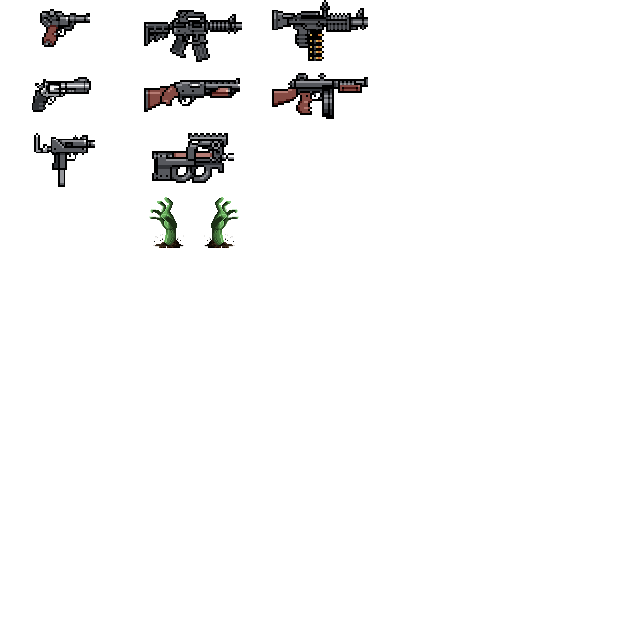
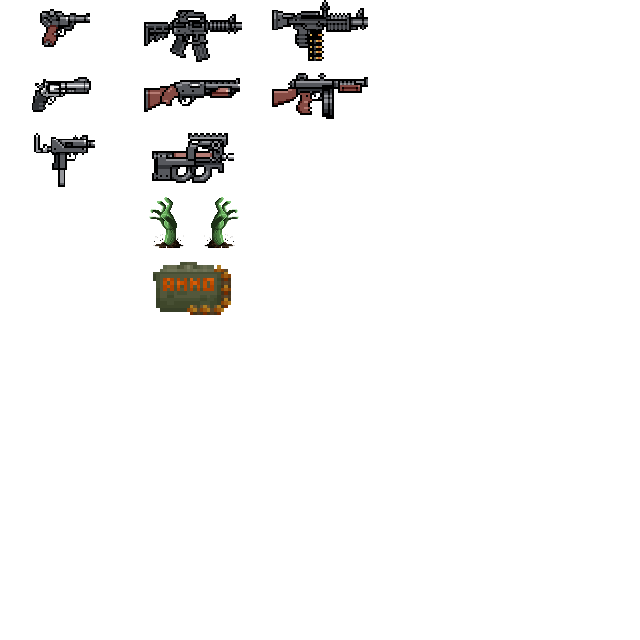
Weapons itemizables awf!

Changed region(s): [[0.2188, 0.4062, 0.375, 0.5]]

diff --git a/main.js b/main.js
@@ -115,7 +115,7 @@ var Core = {
 function SpriteSheet (stack)
 {
 	this.stack = stack?stack:{}
-	this.currentId = null;
+	this.currentId = Object.keys(this.stack)[0];
 
 	this.set = function(id)
 	{
@@ -168,6 +168,7 @@ $(document).ready(function(){
 		Core.init(document.getElementById('canshoot'),
 			[
 				MouseController,
+				HitController,
 				InventoryController,
 
 				ShootController,
@@ -196,7 +197,7 @@ var AimController = {
 	
 	getPivot: function()
 	{
-		return PlayerController.center()
+		return PlayerController.entity.center()
 	},
 
 	getAngleFromTo: function (x, y, to_x, to_y)
@@ -544,9 +545,13 @@ var UIController = {
 	drawLoadedAmmo: function(ctx)
 	{
 		ctx.save()
-		ctx.translate(Core.data.canvas.width/2-40, Core.data.canvas.height -78)
+		ctx.translate(Core.data.canvas.width/2 -30, Core.data.canvas.height -81)
+		
 		text = WeaponController.getCurrentWeapon().get('ammoLoaded')
 		text = text == -1?'∞':text
+		
+		ctx.textBaseline = 'middle'
+  		ctx.textAlign = 'center'
 		ctx.font = '20px Russo One'
 		ctx.fillStyle = 'white'
 		ctx.fillText(text, 0, 0)
@@ -556,8 +561,10 @@ var UIController = {
 	drawLeftAmmo: function(ctx)
 	{
 		ctx.save()
-		ctx.translate(Core.data.canvas.width/2+36, Core.data.canvas.height -78)
+		ctx.translate(Core.data.canvas.width/2+45, Core.data.canvas.height -81)
 		text = WeaponController.getAmmo(WeaponController.getCurrentWeaponId())
+		ctx.textBaseline = 'middle'
+  		ctx.textAlign = 'center'
 		ctx.font = '20px Russo One'
 		ctx.fillStyle = 'white'
 		ctx.fillText(text, 0, 0)
@@ -728,8 +735,12 @@ function Entity (settings)
 		var defaultSettings = {
 			X: 220,
 			Y: 270,
+			scaleX: 1,
+			scaleY: 1,
 			width: 32,
 			height: 32,
+			drawX: 0,
+			drawY: 0,
 			color: "#00A",
 			sprite: new SpriteSheet()
 		}
@@ -760,9 +771,10 @@ function Entity (settings)
   		if (this.sprite.get())
   		{
 	  		ctx.save();
-		    ctx.translate(this.X, this.Y);
-		    this.sprite.get().render(ctx);
-		    ctx.restore();
+		    ctx.translate(this.X + this.drawX, this.Y + this.drawY);
+		    ctx.scale(this.scaleX, this.scaleY)
+		    this.sprite.get().render(ctx)
+		    ctx.restore()
   		} else {
 	  		ctx.fillStyle = this.color;
 		    ctx.fillRect(this.X, this.Y, this.width, this.height);
@@ -794,30 +806,54 @@ function Entity (settings)
 /*==========================================================================================
 =            #ITEM CLASS                       =============================================
 ==========================================================================================*/
-function Item (stack_id, item_id)
+function Item (stack_id, item_id, entity, qty)
 {
 	this.stack_id = stack_id
 	this.item_id = item_id
+	this.entity = entity
+	this.qty = qty?qty:1
+
+	this.grabbable = false
+	this.grabed = false
 
 	this.grab = function()
 	{
-		InventoryController.attach(this.stack_id, this.item_id)
+		InventoryController.attach(this.stack_id, this.item_id, this.qty)
+		this.grabbed = true
 	}
 
-	this.update = function(dt)
+	this.update = function(dt, id)
 	{
-		
+		if (this.grabbed)
+			ItemController.removeItemById(id)
 	}
 
 	this.draw = function(ctx)
 	{
-		ctx.save()
-		ctx.translate(Core.data.canvas.width - 100, Core.data.canvas.height - 200)
-		ctx.scale(0.5, 0.5)
-		ctx.fillStyle = 'lightblue'
-		ctx.fillRect(0,0,128,64)
-		UIController.sprite.get(this.item_id).render(ctx)
-		ctx.restore()
+		this.entity.draw(ctx)
+		if (this.grabbable)
+			this.drawGrabbable(ctx)
+	}
+
+	this.hit = function (by)
+	{
+		if (by == PlayerController)
+		{
+			this.grabbable = true
+		}
+	}
+
+	this.drawGrabbable = function (ctx)
+	{
+		var Y = this.entity.Y + this.entity.height + 15
+		var X = this.entity.center().X
+		var text = 'PRESS E'
+		ctx.textBaseline = 'middle'
+  		ctx.textAlign = 'center'
+		ctx.fillStyle = 'white'
+		ctx.font = '18px Russo One'
+		ctx.fillText(text, X, Y)
+		this.grabbable = false
 	}
 }
 
@@ -832,12 +868,57 @@ var ItemController = {
 
 	init: function()
 	{
-		this.add(new Item('weapons', 'shotgun'))
+		var sprites = {
+	  		rifle: new Sprite('assets/gun.png', [64*2, 0], [64*2, 64], 1, [0], 'vertical'),
+	  		shotgun: new Sprite('assets/gun.png', [64*2, 0], [64*2, 64], 1, [1], 'vertical'),
+	  		smg: new Sprite('assets/gun.png', [64*2, 0], [64*2, 64], 1, [2], 'vertical'),
+	  		hands: new Sprite('assets/gun.png', [64*2, 0], [64*2, 64], 1, [3], 'vertical'),
+	  		ammo: new Sprite('assets/gun.png', [64*2, 0], [64*2, 64], 1, [4], 'vertical'),
+		}
+		this.add(
+			new Item('weapons', 'shotgun', new Entity ({
+				X: Core.data.canvas.width - 450,
+				Y: Core.data.canvas.height - 200,
+				width:48,
+				height:32,
+				drawX: -8,
+				drawY: 0,
+				scaleX: 0.49,
+				scaleY: 0.49,
+				color: 'red',
+				sprite: new SpriteSheet({item: sprites['shotgun']}),
+			}))
+		)
+
+		this.add(
+			new Item('ammo', 'shotgun', new Entity ({
+				X: Core.data.canvas.width - 550,
+				Y: Core.data.canvas.height - 200,
+				width:48,
+				height:32,
+				scaleX: 0.49,
+				scaleY: 0.49,
+				drawX: -8,
+				color: 'red',
+				sprite: new SpriteSheet({item: sprites['ammo']}),
+			}), 10)
+		)
+	},
+
+	getStack: function ()
+	{
+		return this.stack
 	},
 
 	add: function(item)
 	{
 		this.stack.push(item)
+	},
+
+
+	removeItemById: function (item_id)
+	{
+		this.stack.splice(item_id, 1)
 	},
 
 	update: function(dt)
@@ -847,7 +928,7 @@ var ItemController = {
 			if (!this.stack.hasOwnProperty(id))
 				continue;
 
-			this.stack[id].update(dt)
+			this.stack[id].update(dt, id)
 		}
 	},
 
@@ -873,14 +954,21 @@ var InventoryController = {
 
 	init: function ()
 	{
-		// this.attachMany('weapons', {
-		// 	'shotgun': 1,
-		// 	'smg': 1
-		// })
-		// this.attachMany('ammo', {
-		// 	'shotgun': 9,
-		// 	'smg': 25,
-		// })
+		this.attachMany('weapons', {
+			'shotgun': 1,
+			'smg': 1
+		})
+		this.attachMany('ammo', {
+			'shotgun': 9,
+			'smg': 25,
+		})
+	},
+
+	update: function(dt)
+	{
+		var weapons = this.getStack('weapons')
+		if (!WeaponController.getCurrentWeapon() && Object.keys(weapons).length >= 1)
+			WeaponController.setWeapon(Object.keys(weapons)[0])
 	},
 
 	getStack: function (stack_id)
@@ -1027,7 +1115,7 @@ var WeaponController = {
 		var ammoLoaded = this.getCurrentWeapon().get('ammoLoaded')
 		if (ammoLoaded > 0 || ammoLoaded == -1)
 		{
-			ShootController.create(PlayerController.center().X, PlayerController.center().Y,
+			ShootController.create(PlayerController.entity.center().X, PlayerController.entity.center().Y,
 				MouseController.X, MouseController.Y,
 				WeaponController.getCurrentWeapon())
 			// TODO Sounds if not exists not throw things
@@ -1319,13 +1407,14 @@ var PlayerController = {
     this.entity.sprite.get().update(dt);
 
 
-	this.hits(dt);
+	this.dontFallOut(dt);
   },
 
   draw: function(ctx) {
   	this.entity.draw(ctx)
   },
-  hits: function(dt) {
+
+  dontFallOut: function(dt) {
 	if (this.entity.X > Core.data.canvas.width - this.entity.width)
 		this.entity.X = Core.data.canvas.width - this.entity.width
 	if (this.entity.Y > Core.data.canvas.height - this.entity.height)
@@ -1334,20 +1423,59 @@ var PlayerController = {
 		this.entity.X = 0
 	if (this.entity.Y < 0)
 		this.entity.Y = 0
+  },
 
-	// EnemyController hit
-	var rect1 = {x: this.entity.X, y: this.entity.Y, width: this.entity.width, height: this.entity.height}
-	var rect2 = {x: EnemyController.X, y: EnemyController.Y, width: EnemyController.width, height: EnemyController.height}
-
-	// if (rect1.x < rect2.x + rect2.width &&
-	//    rect1.x + rect1.width > rect2.x &&
-	//    rect1.y < rect2.y + rect2.height &&
-	//    rect1.height + rect1.y > rect2.y) {
-	//     console.log('collide')
-	// }
+  hit: function (by)
+  {
+  	if (Item.prototype.isPrototypeOf(by))
+  	{
+	    if (input.isDown("e"))
+	    {
+	    	by.grab()
+  		}
+  	}
   },
 };
 
+
+/*==========================================================================================
+=            #HIT      CONTROLLER            ==============================================
+==========================================================================================*/
+
+var HitController = {
+	collides: function (x, y, r, b, x2, y2, r2, b2) {
+    	return !(r <= x2 || x > r2 || b <= y2 || y > b2);
+	},
+
+	boxCollides: function (entity1, entity2) {
+    	return this.collides(entity1.X, entity1.Y,
+            entity1.X + entity1.width, entity1.Y + entity1.height,
+            entity2.X, entity2.Y,
+            entity2.X + entity2.width, entity2.Y + entity2.height);
+	},
+
+	update: function (dt)
+	{
+		this.checkItemsPlayerHit(dt)
+	},
+
+	checkItemsPlayerHit: function ()
+	{
+		var items = ItemController.getStack()
+
+		for (id in items)
+		{
+			if (!items.hasOwnProperty(id))
+				continue;
+			var item = items[id]
+			if (this.boxCollides(PlayerController.entity, item.entity))
+			{
+				PlayerController.hit(item)
+				item.hit(PlayerController)
+			}
+		}
+	}
+}
 
 /*==========================================================================================
 =            #HIT TEXT CONTROLLE              ==============================================
@@ -1482,7 +1610,7 @@ var EnemyController = {
 		var hitLength = this.getLengthShoot()
 		var weapon = WeaponController.getCurrentWeapon()
 
-		fixTotalLength = PlayerController.width/2 + this.entity.width/2
+		fixTotalLength = PlayerController.entity.width/2 + this.entity.width/2
 		totalLength = weapon.get('length')
 		lostDamage = gunDamage /totalLength * (hitLength-fixTotalLength)
 		lostDamage = lostDamage * weapon.get('maxLostDamageRate')
@@ -1507,8 +1635,8 @@ var EnemyController = {
 		// where dx is the difference between the x-coordinates of the points
 		// and  dy is the difference between the y-coordinates of the points
 		// sqrt(dx^2 + dy^2)
-		var dx = PlayerController.center().X - this.center().X
-		var dy = PlayerController.center().Y - this.center().Y
+		var dx = PlayerController.entity.center().X - this.entity.center().X
+		var dy = PlayerController.entity.center().Y - this.entity.center().Y
 		return Math.sqrt(dx**2 + dy**2)
 	},
 

diff --git a/sprite.js b/sprite.js
@@ -32,7 +32,6 @@
                 frame = 0;
             }
 
-
             var x = this.pos[0];
             var y = this.pos[1];
 
